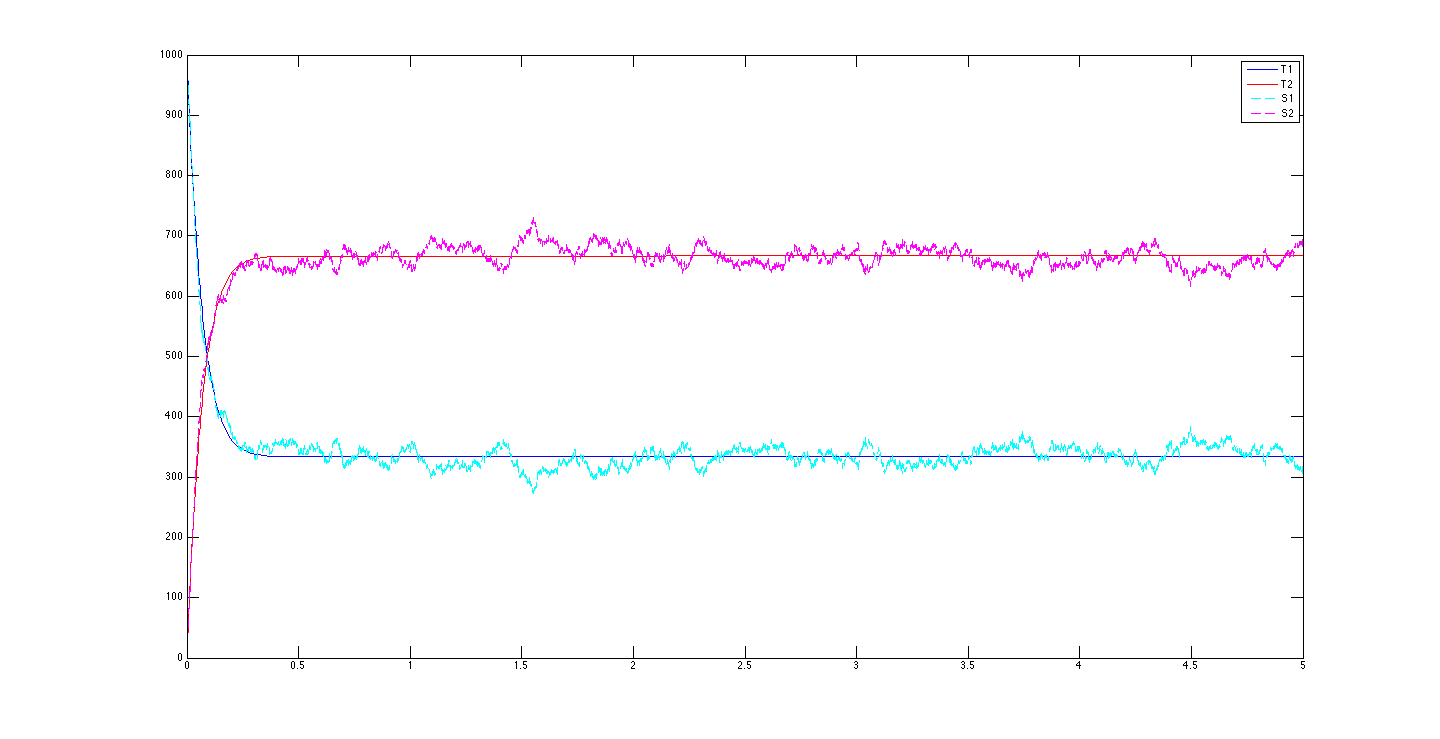
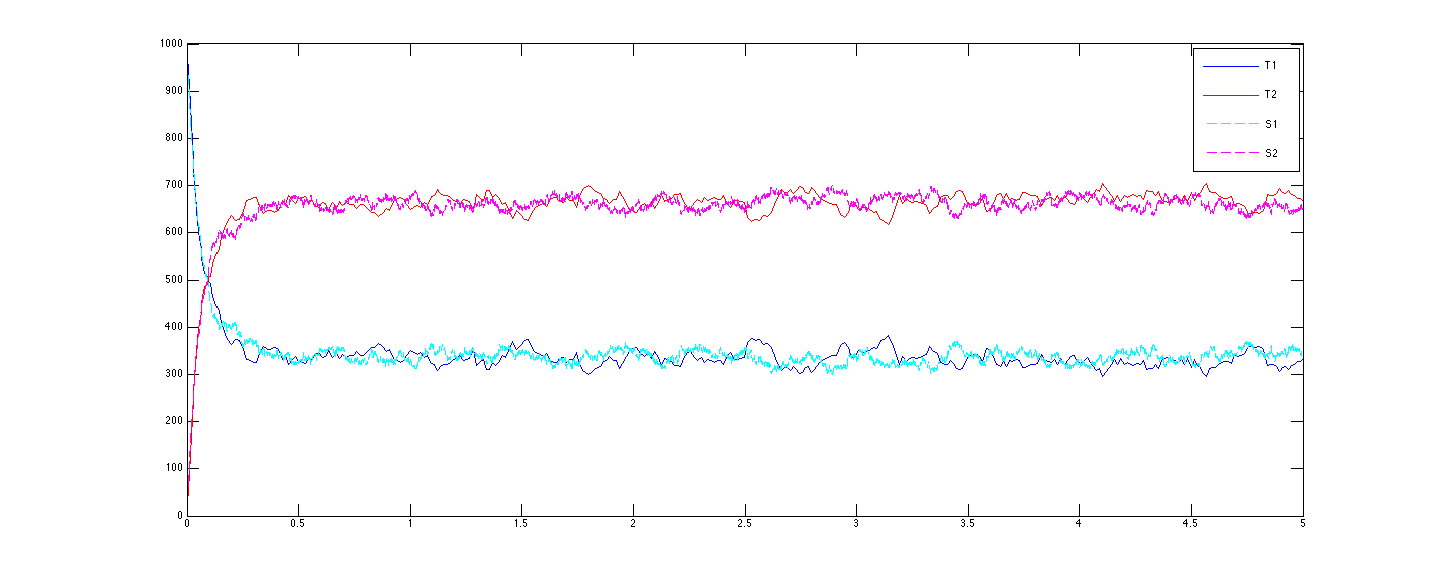
Add stats functions and run the test cases.

Changed region(s): [[0.125, 0.3103, 0.9062, 0.6517], [0.125, 0.869, 0.9062, 0.9], [0.8438, 0.0621, 0.9062, 0.1862]]

diff --git a/jensen_ns_tau_leap/tau-test.m b/jensen_ns_tau_leap/tau-test.m
@@ -4,13 +4,13 @@
 % Tau Test
 
 
-%%
+%% Test 2 problem
 clc;
 
 nu = [[-1 1]', [1 -1]'];
 g = [1 1]';
 
-x0 = [300, 0]';
+x0 = [100, 0]';
 tFinal = 5;
 
 tic;
@@ -47,7 +47,7 @@ nu = [[-1 -1 1 0]', [1 1 -1 0]', [0 1 -1 1]'];
 g = [2 2 1 1]';
 %%%%%%%%%% Parameters and Initial Conditions %%%%%%%%% 
 nA = 6.023e23; % Avagadro?s number
-vol = 1e-14; % volume of system
+vol = 1e-13; % volume of system
 
 x0 = zeros(4,1);
 x0(1) = round(5e-7*nA*vol); % molecules of substrate
@@ -84,4 +84,108 @@ plot(T(1:end-1), diff(T), 'b-');
 hold on;
 plot(TS(1:end-1), diff(TS), 'r-');
 legend('Tau stepsize vs time', 'SSA stepsize vs time');
+
+
+%% Statistics
+
+%% Exam 2 Problem
+clc;
+
+nu = [[-1 1]', [1 -1]'];
+g = [1, 1]';
+
+x0 = [300, 0]';
+T = 0:.1:5;
+realizations = 200;
+%% Really really long process
+clc
+[T, xMean, xVar] = tauStats(x0,@A2 ,nu,T,realizations, g);
+
+xStd = sqrt(xVar);
+
+%%
+clc
+[TS, xMeanS, xVarS] = ssaStats(x0,@A2 ,nu,T,realizations);
+
+xStdS = sqrt(xVarS);
+
+%% Short process (graph)
+
+%%
+close all;
+figure;
+plot(T, xMean(:,1), 'b-', T, xMean(:,2), 'r-');
+hold on;
+plot(TS, xMeanS(:,1), 'c-', TS, xMeanS(:,2), 'm-');
+
+upper = xMean+xStd;
+lower = xMean-xStd;
+upperS = xMeanS+xStdS;
+lowerS = xMeanS-xStdS;
+
+hold on;
+plot(T, upper(:,1), 'b--', T, upper(:,2), 'r--');
+hold on;
+plot(T, lower(:,1), 'b--', T, lower(:,2), 'r--');
+hold on;
+plot(TS, upperS(:,1), 'c--', TS, upperS(:,2), 'm--');
+hold on;
+plot(TS, lowerS(:,1), 'c--', TS, lowerS(:,2), 'm--');
+ylim([0 max(max(max(upper, upperS)))]);
+legend('T1', 'T2', 'S1', 'S2');
+
+
+%% Menten model
+clc;
+
+nu = [[-1 -1 1 0]', [1 1 -1 0]', [0 1 -1 1]'];
+g = [2 2 1 1]';
+%%%%%%%%%% Parameters and Initial Conditions %%%%%%%%% 
+nA = 6.023e23; % Avagadro?s number
+vol = 1e-14; % volume of system
+
+x0 = zeros(4,1);
+x0(1) = round(5e-7*nA*vol); % molecules of substrate
+x0(2) = round(2e-7*nA*vol); % molecules of enzyme
+
+T = 0:50;
+realizations = 200;
+%% Really really long process
+clc
+[T, xMean, xVar] = tauStats(x0,@mMenten2 ,nu,T,realizations, g);
+
+xStd = sqrt(xVar);
+
+%%
+clc
+[TS, xMeanS, xVarS] = ssaStats(x0,@mMenten2 ,nu,T,realizations);
+
+xStdS = sqrt(xVarS);
+
+%% Short process (graph)
+
+%%
+close all;
+figure;
+plot(T, xMean(:,1), 'b-', T, xMean(:,4), 'r-');
+hold on;
+plot(TS, xMeanS(:,1), 'c-', TS, xMeanS(:,4), 'm-');
+
+upper = xMean+xStd;
+lower = xMean-xStd;
+upperS = xMeanS+xStdS;
+lowerS = xMeanS-xStdS;
+
+hold on;
+plot(T, upper(:,1), 'b--', T, upper(:,4), 'r--');
+hold on;
+plot(T, lower(:,1), 'b--', T, lower(:,4), 'r--');
+hold on;
+plot(TS, upperS(:,1), 'c--', TS, upperS(:,4), 'm--');
+hold on;
+plot(TS, lowerS(:,1), 'c--', TS, lowerS(:,4), 'm--');
+ylim([0 max(max(max(upper, upperS)))]);
+legend('T1', 'T4', 'S1', 'S4');
+
+
 

diff --git a/jensen_ns_tau_leap/tau.m b/jensen_ns_tau_leap/tau.m
@@ -6,6 +6,7 @@ function [ T, S ] = tau( x0, propensityFunctions, nu, tFinal, g )
 % - nu: the stoichiometric matrix, where the ith column is the stoichiometric
 %       vector for reaction Ri.
 % - tFinal: the simulation time (assuming t=0 is the initial time)
+% - g: The HOR vector indexed accross the populations
 % Parameters
 e = .03;
 nc = 10;
@@ -150,9 +151,9 @@ end
 T = [T tFinal]';
 S = [S; x'];
 
-fprintf('Tau count - %f\n', tauCount);
-fprintf('SSA count - %f\n', ssaCount);
-fprintf('Redraw Tau count - %f\n', redrawCount);
+% fprintf('Tau count - %f\n', tauCount);
+% fprintf('SSA count - %f\n', ssaCount);
+% fprintf('Redraw Tau count - %f\n', redrawCount);
 
 end
 

diff --git a/jensen_ns_tau_leap/tauStats.m b/jensen_ns_tau_leap/tauStats.m
@@ -14,8 +14,7 @@ for run = 1:realizations
     if mod(run, 10) == 1
         fprintf('Just finished run %g, %g%% of the way done.\n', run, 100*run/realizations);
     end
-    [tTra, xTra] = ssa(x0, a, nu, outTimes(end)');
-    [tTra, xTra] = tau(x0, a, nu, outTimes(end)', g)
+    [tTra, xTra] = tau(x0, a, nu, outTimes(end)', g);
     
     % get the updated statistics for this trajectory
     [M1, M0, S1] = updateStats(tSam, tTra, xTra, M0, M1, S1, run);
